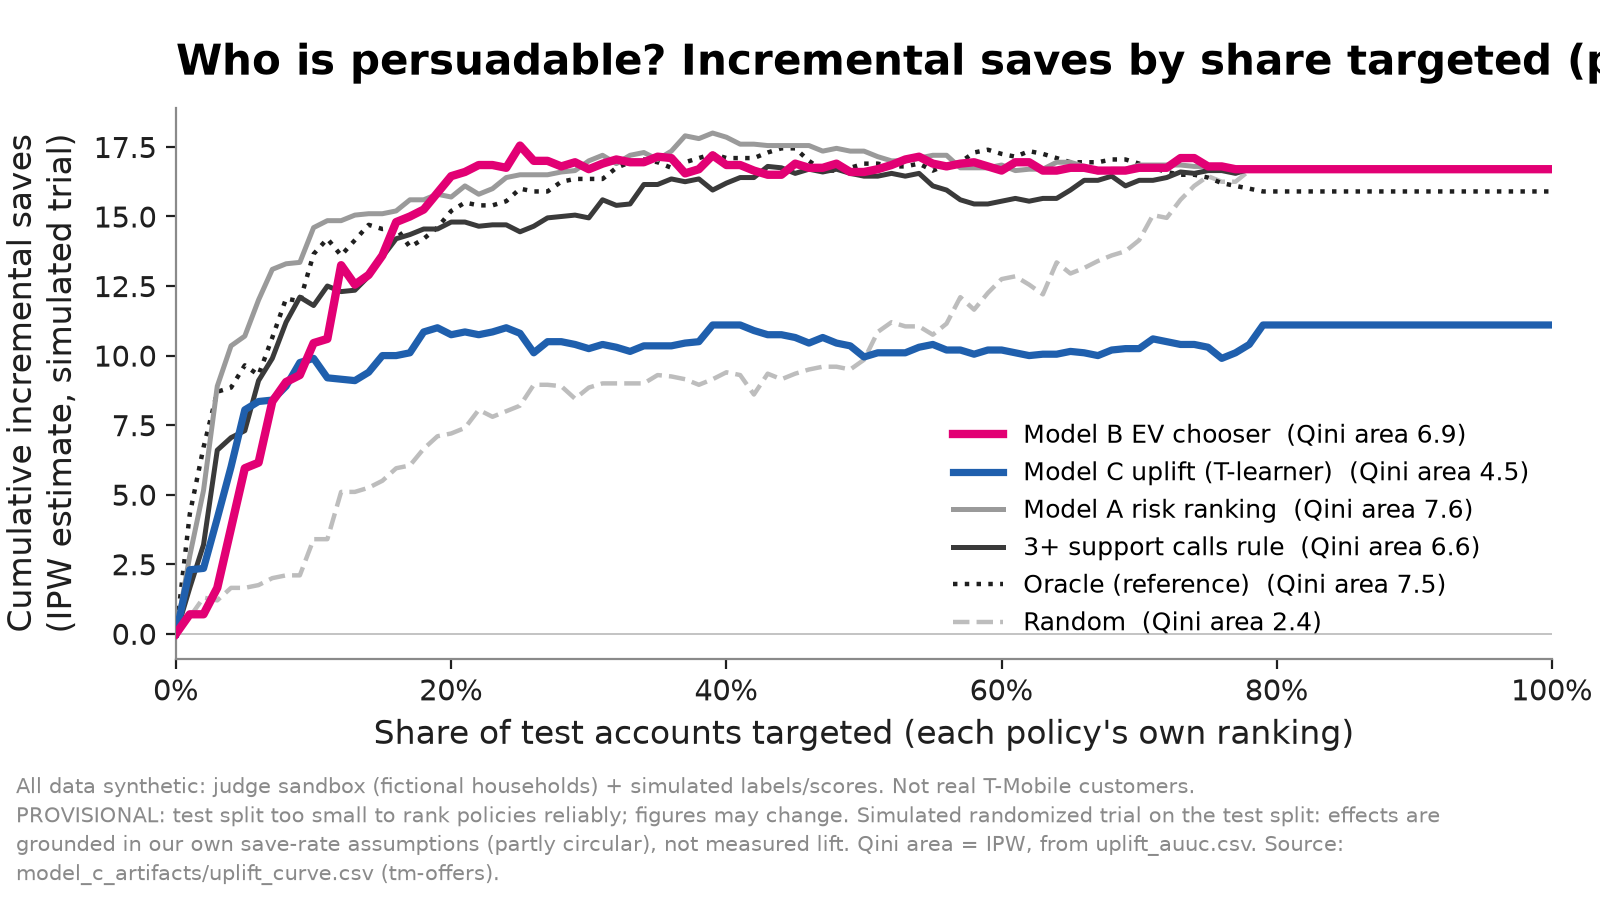
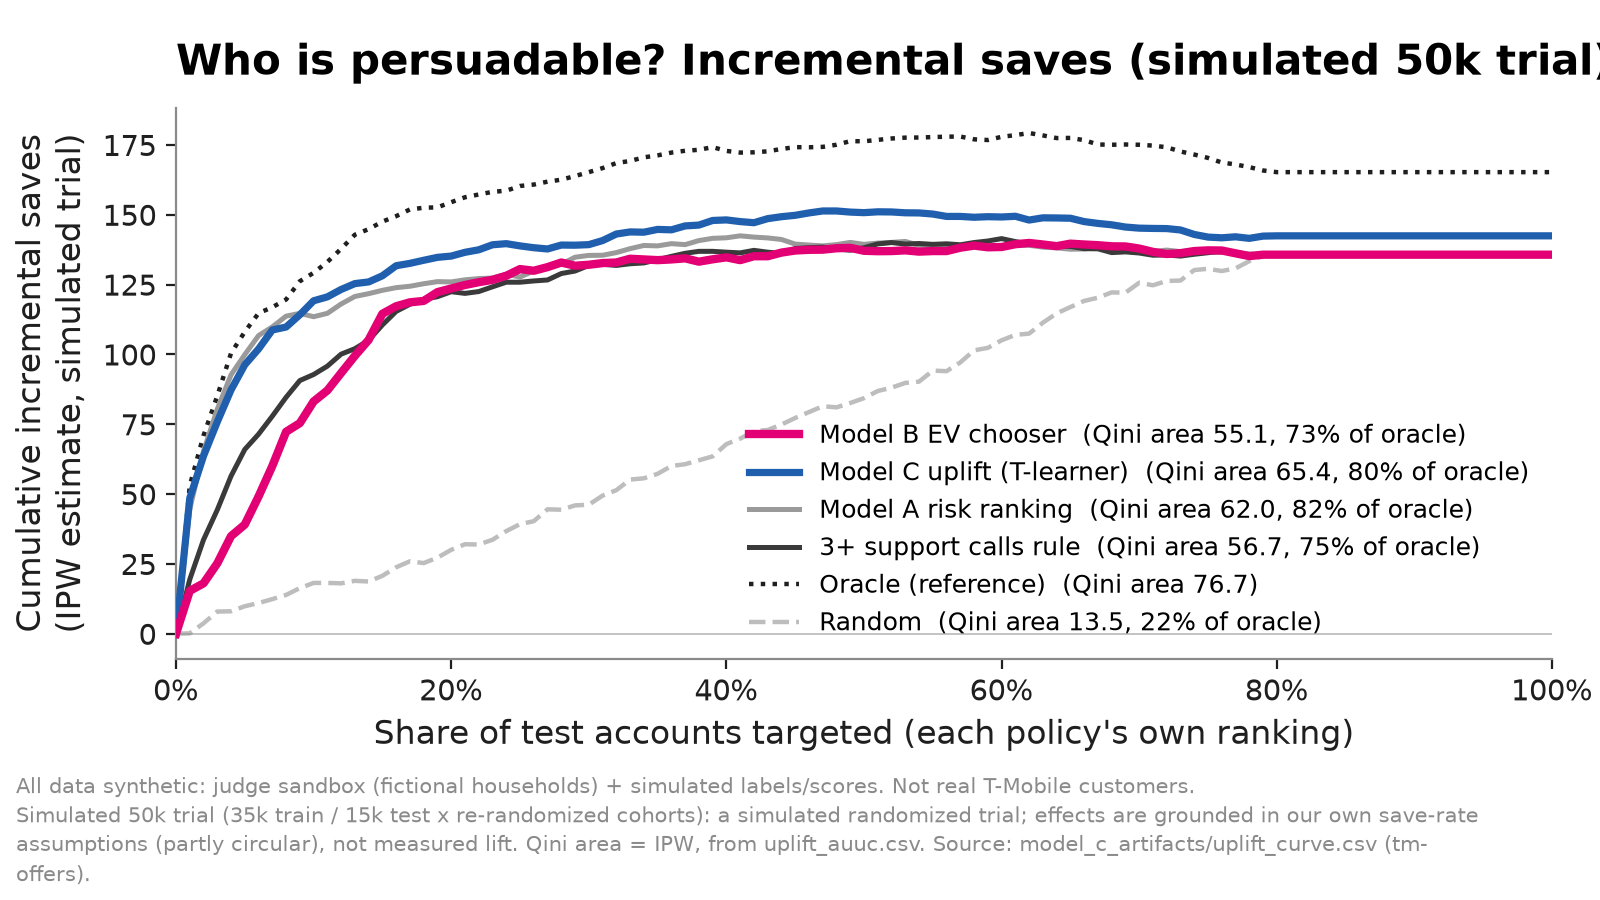
tm-ui: Model C charts for simulated 50k trial with DR CIs
Replace provisional wording with simulated 50k trial; add 95% CI
error bars on policy value (DR); show Model C Qini share of oracle
from uplift_auuc.csv. Magenta only on Model B; keep close-to-best
framing (B/C/oracle not separable).

diff --git a/app/charts/make_charts.py b/app/charts/make_charts.py
@@ -289,13 +289,13 @@ def chart_calibration(df):
 
 
 # ------------------------------------------------------------------ 04/05 Model C
-# Model C is final (tm-offers 6705fb9). Charts are drawn from harness/model_c_artifacts/ whenever the CSVs exist.
+# Model C charts: harness/model_c_artifacts/ (simulated 50k trial by default). Drawn whenever the CSVs exist.
 # Set TM_MODELC_PLACEHOLDER=1 to force placeholders (e.g. while tm-offers reruns). TM_MODELC_FINAL is no longer needed.
 import os  # noqa: E402
 MODEL_C_FORCE_PLACEHOLDER = os.environ.get("TM_MODELC_PLACEHOLDER") == "1"
 MODELB_PINK, MODELC_COL, MODELA_COL, RULE_COL = MAGENTA, "#1F5FAD", "#9A9A9A", "#3A3A3A"
-CIRC_NOTE = ("PROVISIONAL: test split too small to rank policies reliably; figures may change. Simulated randomized trial on the test split: effects are grounded in our own save-rate assumptions "
-             "(partly circular), not measured lift.")
+CIRC_NOTE = ("Simulated 50k trial (35k train / 15k test x re-randomized cohorts): a simulated randomized trial; "
+             "effects are grounded in our own save-rate assumptions (partly circular), not measured lift.")
 POLICY_ORDER = ["Model B EV chooser", "Model C T-learner", "Offer to everyone", "3+ calls rule", "Random", "Do nothing",
                 "Oracle (reference)"]
 
@@ -346,12 +346,16 @@ def chart_qini():
     if xc is None or yc is None or gc is None:
         return placeholder("04_modelC_qini.png", title, "Model C CSV found, columns not recognized", f"{p.name}: {list(q.columns)}")
     auuc = {}
+    share_oracle = {}
     ap = p.parent / "uplift_auuc.csv"
     if ap.exists():
         a = pd.read_csv(ap)
         ac, av = _col(a, "policy_or_model", "model", "policy"), _col(a, "qini_area_ipw", "qini_area", "auuc")
+        ashare = _col(a, "share_of_oracle_true", "share_of_oracle", "qini_share_oracle")
         if ac and av:
             auuc = {short_policy(k): float(v) for k, v in zip(a[ac], a[av])}
+        if ac and ashare:
+            share_oracle = {short_policy(k): float(v) for k, v in zip(a[ac], a[ashare])}
     style = {  # name: (color, lw, ls, zorder)
         "Model B EV chooser": (MODELB_PINK, 3.0, "-", 6), "Model C T-learner": (MODELC_COL, 2.6, "-", 5),
         "Model A risk ranking": (MODELA_COL, 1.8, "-", 3), "3+ calls rule": (RULE_COL, 1.8, "-", 4),
@@ -369,7 +373,10 @@ def chart_qini():
         col, lw, ls, z = style.get(name, (GREY, 1.5, "-", 2))
         lab = name.replace("3+ calls rule", "3+ support calls rule").replace("Model C T-learner", "Model C uplift (T-learner)")
         if name in auuc:
-            lab += f"  (Qini area {auuc[name]:.1f})"
+            lab += f"  (Qini area {auuc[name]:.1f}"
+            if name in share_oracle and name != "Oracle (reference)":
+                lab += f", {share_oracle[name]:.0%} of oracle"
+            lab += ")"
         ax.plot(xs, s[yc], color=col, lw=lw, ls=ls, zorder=z, label=lab)
         curves[name] = dict(at10=float(np.interp(0.1, xs, s[yc])), at20=float(np.interp(0.2, xs, s[yc])), max=float(s[yc].max()))
     ax.axhline(0, color=GREY, lw=0.6, alpha=0.6)
@@ -377,11 +384,11 @@ def chart_qini():
     ax.xaxis.set_major_formatter(matplotlib.ticker.PercentFormatter(1.0))
     ax.set_xlabel("Share of test accounts targeted (each policy's own ranking)")
     ax.set_ylabel("Cumulative incremental saves\n(IPW estimate, simulated trial)")
-    ax.set_title("Who is persuadable? Incremental saves by share targeted (provisional)")
+    ax.set_title("Who is persuadable? Incremental saves (simulated 50k trial)")
     ax.legend(frameon=False, loc="lower right", fontsize=9)
     f.subplots_adjust(left=0.11, right=0.97, top=0.88)
     save(f, "04_modelC_qini.png", esc(f"{CIRC_NOTE} Qini area = IPW, from uplift_auuc.csv. Source: {p.parent.name}/{p.name} (tm-offers)."))
-    return {"file": str(p), "y": yc, "auuc_ipw": auuc, "curves": curves}
+    return {"file": str(p), "y": yc, "auuc_ipw": auuc, "share_of_oracle_true": share_oracle, "curves": curves}
 
 
 def chart_policy():
@@ -400,10 +407,17 @@ def chart_policy():
     t["_o"] = t.name.map(lambda n: POLICY_ORDER.index(n) if n in POLICY_ORDER else 50)
     t = t.sort_values("_o").reset_index(drop=True)
     main_c, up_c = "net_value_no_upsell_dr_usd", "net_value_with_upsell_dr_usd"
+    # CI columns from simulated 50k trial (inspect headers; do not invent names)
+    ci_no_lo = "net_no_upsell_dr_ci_low" if "net_no_upsell_dr_ci_low" in t.columns else None
+    ci_no_hi = "net_no_upsell_dr_ci_high" if "net_no_upsell_dr_ci_high" in t.columns else None
+    ci_up_lo = "net_with_upsell_dr_ci_low" if "net_with_upsell_dr_ci_low" in t.columns else None
+    ci_up_hi = "net_with_upsell_dr_ci_high" if "net_with_upsell_dr_ci_high" in t.columns else None
+    has_ci = all(c is not None for c in (ci_no_lo, ci_no_hi, ci_up_lo, ci_up_hi))
     f, ax = fig()
     y = np.arange(len(t))
     h = 0.38
     rows = []
+    err_kw = dict(ecolor=DARK, elinewidth=1.0, capsize=2.5, capthick=1.0, zorder=4, alpha=0.85)
     for i, r in t.iterrows():
         n = r["name"]
         if n == "Model B EV chooser":
@@ -417,12 +431,30 @@ def chart_policy():
         ax.barh(i - h / 2, r[main_c], h, color=col, hatch=hatch, edgecolor=ec, lw=0.6, zorder=3)
         ax.barh(i + h / 2, r[up_c], h, color=col, alpha=0.35 if not n.startswith("Oracle") else 1.0, hatch=hatch,
                 edgecolor=ec, lw=0.6, zorder=3)
-        rows.append(dict(policy=r.policy, label=n, net_value_no_upsell_dr_usd=r[main_c], net_value_with_upsell_dr_usd=r[up_c],
-                         churners_saved_dr=r.churners_saved_dr, cost_per_save_dr_usd=r.cost_per_save_dr_usd,
-                         n_contacted=r.get("n_contacted")))
-    lo = min(0, t[[main_c, up_c]].min().min())
-    hi = max(0, t[[main_c, up_c]].max().max())
-    span = hi - lo
+        if has_ci:
+            # Asymmetric xerr for retention-only and with-upsell bars
+            no_lo, no_hi = float(r[ci_no_lo]), float(r[ci_no_hi])
+            up_lo, up_hi = float(r[ci_up_lo]), float(r[ci_up_hi])
+            ax.errorbar(r[main_c], i - h / 2,
+                        xerr=[[max(0.0, r[main_c] - no_lo)], [max(0.0, no_hi - r[main_c])]],
+                        fmt="none", **err_kw)
+            ax.errorbar(r[up_c], i + h / 2,
+                        xerr=[[max(0.0, r[up_c] - up_lo)], [max(0.0, up_hi - r[up_c])]],
+                        fmt="none", **err_kw)
+        row = dict(policy=r.policy, label=n, net_value_no_upsell_dr_usd=r[main_c], net_value_with_upsell_dr_usd=r[up_c],
+                   churners_saved_dr=r.churners_saved_dr, cost_per_save_dr_usd=r.cost_per_save_dr_usd,
+                   n_contacted=r.get("n_contacted"))
+        if has_ci:
+            row.update(net_no_upsell_dr_ci_low=float(r[ci_no_lo]), net_no_upsell_dr_ci_high=float(r[ci_no_hi]),
+                       net_with_upsell_dr_ci_low=float(r[ci_up_lo]), net_with_upsell_dr_ci_high=float(r[ci_up_hi]))
+        rows.append(row)
+    # Axis limits must cover CI tips as well as point estimates
+    vals = list(t[main_c]) + list(t[up_c])
+    if has_ci:
+        vals += list(t[ci_no_lo]) + list(t[ci_no_hi]) + list(t[ci_up_lo]) + list(t[ci_up_hi])
+    lo = min(0, min(vals))
+    hi = max(0, max(vals))
+    span = hi - lo if hi != lo else 1.0
     xtxt = hi + span * 0.04
     for i, r in t.iterrows():
         if r["name"] == "Do nothing":
@@ -431,6 +463,9 @@ def chart_policy():
             cps = f"${r.cost_per_save_dr_usd:,.0f}/save" if pd.notna(r.cost_per_save_dr_usd) else "n/a"
             lab = (f"{_money(r[main_c])}  |  {_money(r[up_c])} w/ upsell\n"
                    f"{r.churners_saved_dr:.1f} saves · {cps}")
+            if has_ci and r["name"] == "Model B EV chooser":
+                # Keep labels compact; CIs are on the bars. Note inseparability in footnote.
+                pass
         ax.text(xtxt, i, esc(lab), va="center", ha="left", fontsize=8.6, color=DARK, linespacing=1.25,
                 fontweight="bold" if r["name"] == "Model B EV chooser" else "normal")
     ax.set_yticks(y, t.name)
@@ -445,17 +480,24 @@ def chart_policy():
     ax.set_xticks([v for v in ax.get_xticks() if lo - span * 0.04 <= v <= hi * 1.001])
     ax.xaxis.set_major_formatter(matplotlib.ticker.FuncFormatter(lambda v, _: _money(v, plus=False) if v else "$0"))
     ax.set_xlabel("Net value, 24-month margin minus offer cost (doubly-robust estimate)")
-    ax.set_title("Targeted offers vs blanket policies (provisional)")
+    ax.set_title("Targeted offers vs blanket policies (simulated 50k trial)")
     from matplotlib.patches import Patch
-    ax.legend(handles=[Patch(color="#7A7A7A", label="Retention only"), Patch(color="#7A7A7A", alpha=0.35, label="With upsell")],
-              frameon=False, loc="lower left", fontsize=8, handlelength=1.2, borderaxespad=0.2)
+    handles = [Patch(color="#7A7A7A", label="Retention only"),
+               Patch(color="#7A7A7A", alpha=0.35, label="With upsell")]
+    if has_ci:
+        from matplotlib.lines import Line2D
+        handles.append(Line2D([0], [0], color=DARK, lw=1.0, label="95% CI (re-randomized cohorts)"))
+    ax.legend(handles=handles, frameon=False, loc="lower left", fontsize=8, handlelength=1.2, borderaxespad=0.2)
     f.subplots_adjust(left=0.25, right=0.98, top=0.9)
     n_test = int(t.n_test_accounts.iloc[0]) if "n_test_accounts" in t else None
     reps = int(t.trial_replicates.iloc[0]) if "trial_replicates" in t else None
+    close_note = (" Model B, Model C and the oracle are not separable on net value "
+                  "(paired 95% CIs cross 0; close to the best possible), so do not claim Model B beats the oracle.")
     save(f, "05_modelC_policy_value.png",
-         esc(f"{CIRC_NOTE} DR estimates, {n_test:,} test accounts x {reps} re-randomized cohorts. "
+         esc(f"{CIRC_NOTE}{close_note} DR estimates with 95% CIs, "
+             f"{n_test:,} test accounts x {reps} re-randomized cohorts. "
              f"Oracle uses the hidden simulated effects (reference only). Source: {p.parent.name}/{p.name} (tm-offers)."))
-    return {"file": str(p), "estimator": "doubly_robust", "table": rows}
+    return {"file": str(p), "estimator": "doubly_robust", "has_ci": has_ci, "table": rows}
 
 
 # ------------------------------------------------------------------ 06 learning curve
